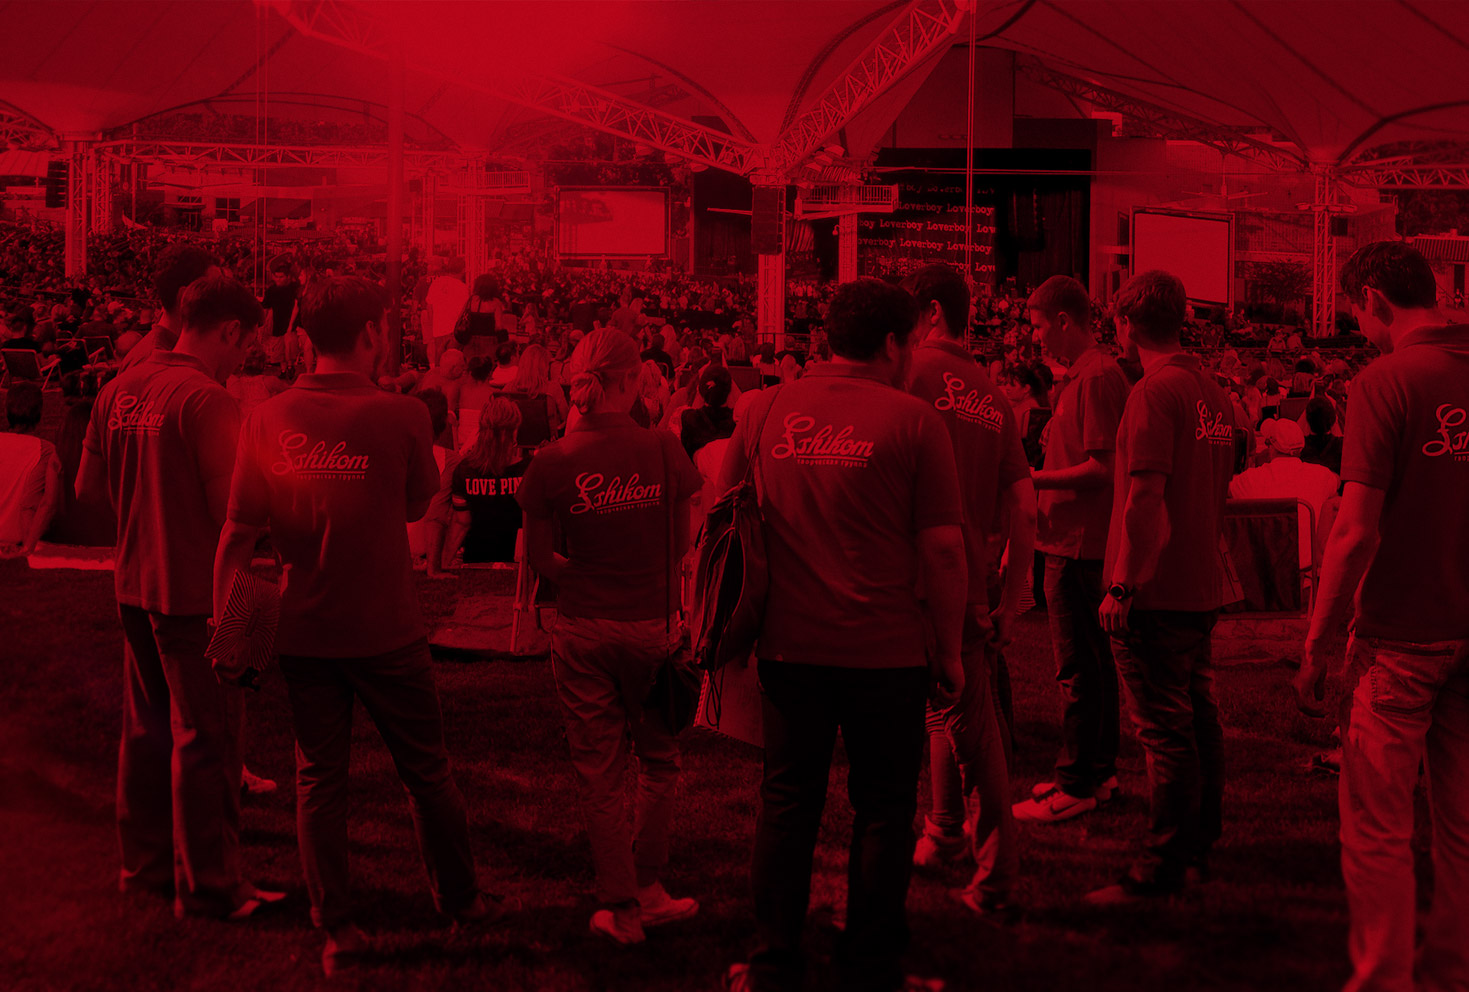
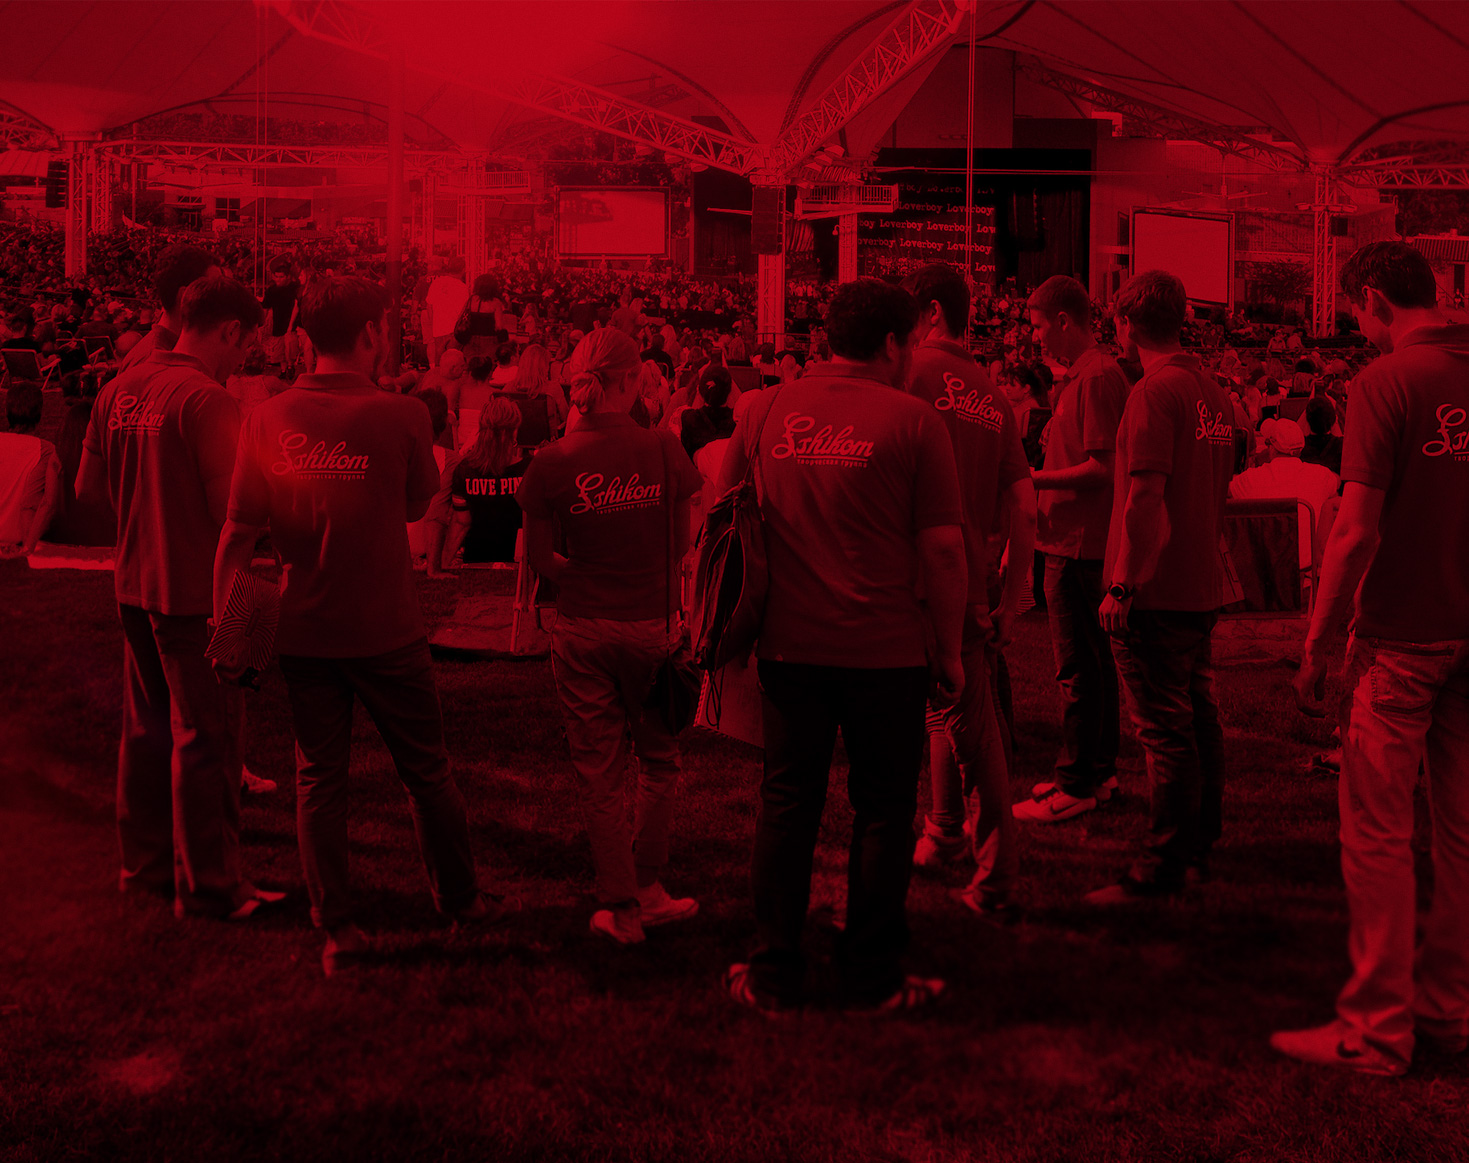
Sshikom v2

diff --git a/public/demo/sshikom/css/main.css b/public/demo/sshikom/css/main.css
@@ -76,8 +76,6 @@ textarea {
   right:0;
   float:right;
   background:#dba9a7;
-  list-style-type:none;
-  width:;
   margin:0;
   z-index:99;
   width:44px;
@@ -85,9 +83,20 @@ textarea {
   padding:10px 0;
 }
 
-.sidebars-fixed .sidebar-control {
+.sidebar-control,
+ul.social-links,
+a.popup-opener {
   position:fixed;
-  top:60px;
+  top:50%;
+  margin-top:-100px;
+}
+
+.sidebar-control {
+  margin-top:-40px;  
+}
+
+a.popup-opener {
+  margin-top:-33px;  
 }
 
 .sidebar-control .control{
@@ -215,7 +224,7 @@ textarea {
 #sec1 {
   width:100%;
   height:100%;
-  background:#fff url(../img/sec1-bg.png) 50% 0 no-repeat;
+  background:#fff url(../img/sec1-bg.jpg) 50% 50% no-repeat;
   position:relative;
     -webkit-backface-visibility:hidden;
 }
@@ -269,7 +278,7 @@ textarea {
   margin:0 auto;
   text-align:center;
   background:url(../img/scroll.png) 50% 100% no-repeat;
-  padding:110px 0 55px;
+  padding:100px 0 55px;
   opacity:0;
   position:relative;
   top:-15px;
@@ -278,7 +287,7 @@ textarea {
 /* === SECTION 2 */
 #sec2 {
   background:#c92f1c url(../img/sec2-bg.jpg) 50% 100% no-repeat;
-  top:100%;
+  top:150%;
   z-index:15;
 }
 
@@ -288,7 +297,7 @@ textarea {
   color:#fff;
   position:absolute;
   left:50%;
-  bottom:350px;
+  bottom:340px;
   display:none;
 }
 
@@ -315,14 +324,26 @@ textarea {
   left:-133px;
 }
 
+#sec2 .num.empl span{
+  color:#faecee;
+}
+
 #sec2 .num.cli {
   top:506px;
   left:172px;
 }
 
+#sec2 .num.cli span{
+  color:#e7f0e8;
+}
+
 #sec2 .num.year {
   top:510px;
   left:504px;
+}
+
+#sec2 .num.year span{
+  color:#d5d3d9;
 }
 
 #sec2 .num.proj {
@@ -331,12 +352,17 @@ textarea {
   width:200px;
 }
 
+#sec2 .num.proj span{
+  color:#f8cbd2;
+}
+
 
 /* === SECTION 3 */
 #sec3 {
   width:100%;
   height:100%;
-  background:url(../img/sec3-bg.jpg) 50% 0 repeat-x;
+  background:url(../img/sec3-bg.jpg) 50% 50% repeat-x;
+  background-size:1920px auto;
   position:absolute;
   top:0;
   z-index:3;
@@ -350,7 +376,7 @@ textarea {
   padding:50px 0 80px;
   color:#181818;
   position:absolute;
-  top:100%;
+  top:150%;
   left:50%;
   background-color:rgba(255,255,255,0.9);
   -webkit-border-radius:350px / 70px;

diff --git a/public/demo/sshikom/js/main.js b/public/demo/sshikom/js/main.js
@@ -1,6 +1,6 @@
 $(function() {  
   var video = $('#sec1 .video');
-  var videoUrl = 'http://player.vimeo.com/video/59222440?title=0&amp;byline=0&amp;portrait=0&amp;color=ffffff&amp;autoplay=0';
+  var videoUrl = 'http://player.vimeo.com/video/59390089?title=0&amp;byline=0&amp;portrait=0&amp;color=ffffff&amp;autoplay=1';
   video.animate({top: 110}, 1800, function() {
     video.next()
       .delay(400)
@@ -73,29 +73,34 @@ $(function() {
     ])
     .append([
       TweenMax.to($('#sec2'), 1, {
-        css:{top:'-100%'}
+        css:{top:'-100%'},
+        delay: .2
       }),
       TweenMax.to($('#sec3 .text'), 1, {
         css:{top:'50%'},
         onComplete: function() {
           $('#sec4').show();
-        }
+        },
+        delay: .2
       })     
     ])
     .append([
       TweenMax.to($('#sec3'), 1, {
-        css:{top:'-100%'}
+        css:{top:'-100%'},
+        delay: .2
       }),
-      TweenMax.to($('#sec3 .text'), .8, {
-        css:{top:'50%'}
+      TweenMax.to($('#sec3 .text'), 1, {
+        css:{top:'50%'},
+        delay: .2
       })
     ])
     .append(TweenMax.to($('#sec4'), 1, {
       css:{marginTop:'-'+planTop+'px'},
       onComplete: function() {
         $('#sec5').show();
-      }
-    }).timeScale(1.5))
+      },
+      delay: .1
+    }).timeScale(0.7))
     .append(TweenMax.to($('#sec5'), 1, {
       css:{top:0},
       onStart: function() {

diff --git a/public/demo/sshikom/js/sshikom.js b/public/demo/sshikom/js/sshikom.js
@@ -41,7 +41,7 @@ $(function(){
 		$("body").removeClass("popup-frame");
 		window.location.hash = "";
 	});
-	$(window).scroll(function(){
+	/*$(window).scroll(function(){
 		var $t = $(this),
 			sT = $t.scrollTop();
 		if (sT > 511) {
@@ -49,7 +49,7 @@ $(function(){
 		} else {
 			$("body").removeClass("sidebars-fixed");
 		}
-	});
+	});*/
 	if (window.location.hash == "#order") {
 		$("a.popup-opener").eq(0).trigger("click");
 	}
